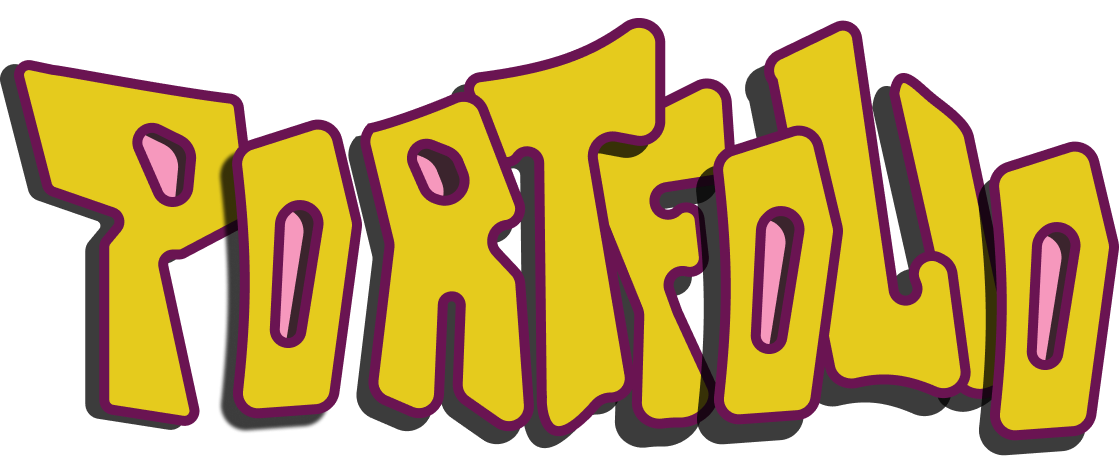
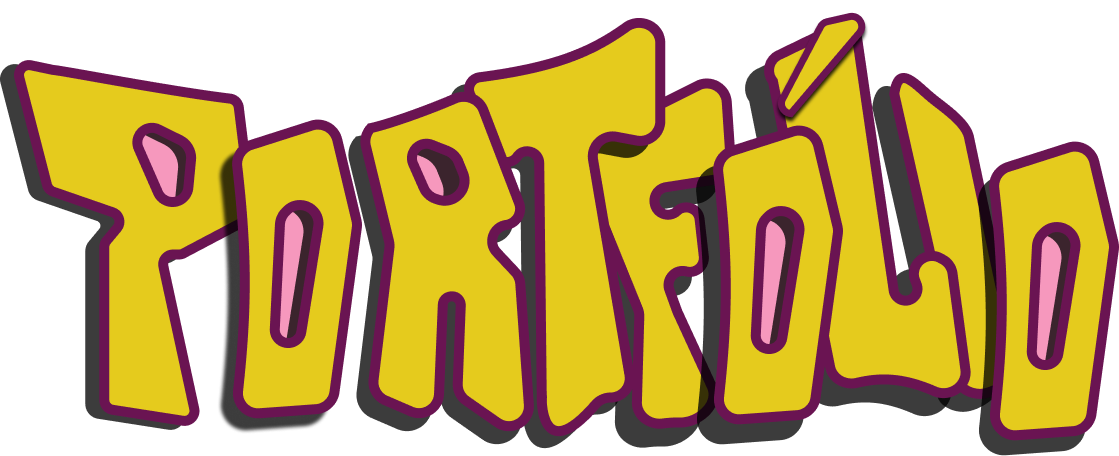
teste

Changed region(s): [[0.6988, 0.0307, 0.79, 0.2763]]

diff --git a/css/style.css b/css/style.css
@@ -264,6 +264,7 @@ main {
     color: var(--color-wine);
     padding: .3rem;
     border-radius: 30px;
+    box-shadow: 0px 4px 10px rgba(0, 0, 0, 0.4);
     text-align: center;
     position: absolute;
     top: 5px;
@@ -296,15 +297,13 @@ main {
     height: 0;
     overflow: hidden;
     background: transparent;
-    transition: var(--transition-);
     color: var(--color-wine);
     border-radius: 5px 5px 20px 20px;
     background: rgba(250, 204, 225, 0.51);
     box-shadow: 0 4px 30px rgba(0, 0, 0, 0.1);
     backdrop-filter: blur(10.3px);
     -webkit-backdrop-filter: blur(10.3px);
-    
-
+    transition: height .35s ease;
 
 
 }
@@ -316,9 +315,10 @@ main {
     display: grid;
     grid-template-columns: repeat(2, 1fr);
     grid-auto-rows: 25vh;
-    gap: 0.5rem;
+    gap: 1rem;
     justify-content: center;
     padding: 10px;
+    
 }
 
 .text button {
@@ -328,16 +328,18 @@ main {
     background-color: var(--color-pink);
     color: var(--color-wine);
     box-shadow: 0px 3px var(--color-wine);
+    cursor: pointer;
 
 }
 .text button:hover{
     background-color: var(--color-yellow);
+     transition: 0.3s ease-in-out 0.1s;
 
 }
 
 .text p {
     max-height: 12vh;
-    max-width: 90%;
+    
     overflow-y: auto;
     margin: 10px 0;
     
@@ -349,7 +351,7 @@ main {
 
 .margin {
     gap: 1rem;
-    padding: 20px;
+    padding: 10px;
     display: none;
     min-width:90%;
     margin-top: 10px;
@@ -370,7 +372,12 @@ main {
     color: white;
     height: max-content;
     align-items: center;
+    cursor: pointer;
 
+}
+.tech:hover{
+    transform: scale(1.2);
+     transition: 0.4s ;
 }
 
 footer {
@@ -541,6 +548,12 @@ footer ul {
     .name img {
         width: 90px;
     }
+    .margin{
+        padding: 20px;
+    }
+    .tech{
+        font-size: 15px;
+    }
 
 }
 
@@ -565,7 +578,7 @@ footer ul {
      :root {
         --title-cracha: 45px;
         --titulos: 30px;
-        --text: 25px;
+        --text: 20px;
     }
     #aboutMe{
         height:100vh;
@@ -576,24 +589,25 @@ footer ul {
     .containerLetters{
         justify-content: center;
     }
-    .card{
-        width: 80%;
-        gap: 5rem;
-      
+    .margin{
+        padding: 14px;
     }
-    .descricao{
-        width: 50%;
-    }
+   
     .cracha-img{
         width: 100%;
-        height: 60vh;
+        height: 40vh;
+
     }
+   
     .banner{
         height: 40vh;
         border-radius: 50px;
     }
     .containerProjects{
         grid-auto-rows: 40vh;
+        width:90%;
+        margin: 50px auto;
+    
     }
    
    

diff --git a/js/script.js b/js/script.js
@@ -21,7 +21,7 @@ const projects = [
 ]
   
   },
-   {category:'Landing Page',name:'Nativa traduções',img:"",description:"",link:"https://tayssabeatriz.github.io/portfolio-page/landingPages/",
+   {category:'Landing Page',name:'Nativa traduções',img:"landingPages/NativaTraducoes/img/capa.png",description:"",link:"https://tayssabeatriz.github.io/portfolio-page/landingPages/NativaTraducoes/",
      tech: [
     { nome: "HTML", cor: "#E34F26" },
     { nome: "CSS3", cor: "#A36AFF" },
@@ -29,7 +29,7 @@ const projects = [
 ]
   
   },
-  {category:'Landing Page',name:'Covite de casamento',img:"landingPages/convite/img/poster_capa.jpg",description:"",link:"https://tayssabeatriz.github.io/portfolio-page/landingPages/",
+  {category:'Landing Page',name:'Covite de casamento',img:"landingPages/convite/img/poster_capa.jpg",description:"Clone da página(https://finca-demo.thedigitalyes.com/)feito originalemente por:The Digital Yes.Este projeto foi desenvolvido com o objetivo de praticar HTML, CSS e JavaScript, reproduzindo o layout e algumas interações da página. Todos os direitos sobre o design e a identidade visual pertencem à empresa original.",link:"https://tayssabeatriz.github.io/portfolio-page/landingPages/convite/",
      tech: [
     { nome: "HTML", cor: "#E34F26" },
     { nome: "CSS3", cor: "#A36AFF" },
@@ -101,6 +101,7 @@ banners.forEach((banner) => {
     banner.addEventListener('click', () => {
 
         const card = banner.closest('.card-project');
+        const description = card.querySelector('.descriptionProj');
         const text = card.querySelector('.margin');
 
         const cardAberto = card.classList.contains('open');
@@ -108,17 +109,24 @@ banners.forEach((banner) => {
         // Fecha todos os cards
         document.querySelectorAll('.card-project').forEach((c) => {
             c.classList.remove('open');
-            c.querySelector('.descriptionProj').style.height = '0';
-            c.querySelector('.margin').style.display = 'none';
-            c.style.gridRow = 'span 1';
+
+            const desc = c.querySelector('.descriptionProj');
+            const margin = c.querySelector('.margin');
+
+            desc.style.height = "0px";
+            margin.style.display = "none";
+
+            c.style.gridRow = "span 1";
         });
 
         // Se o card clicado estava fechado, abre ele
         if (!cardAberto) {
             card.classList.add('open');
-            card.querySelector('.descriptionProj').style.height = 'auto';
-            text.style.display = 'grid';
-            card.style.gridRow = 'span 2';
+            text.style.display = "grid";
+
+            description.style.height = description.scrollHeight + "px";
+
+            card.style.gridRow = "span 2";
         }
 
     });